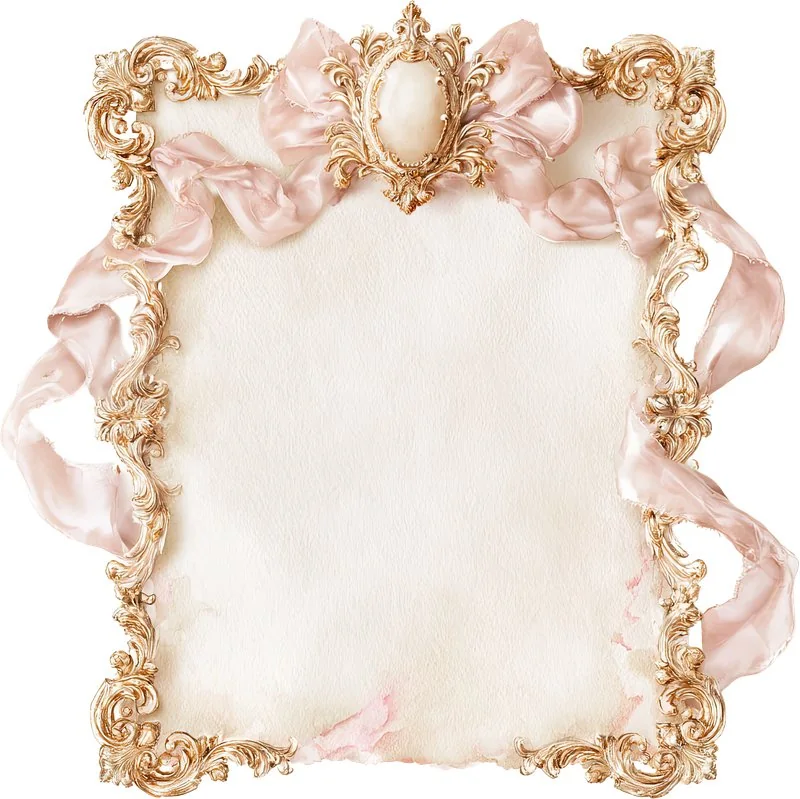
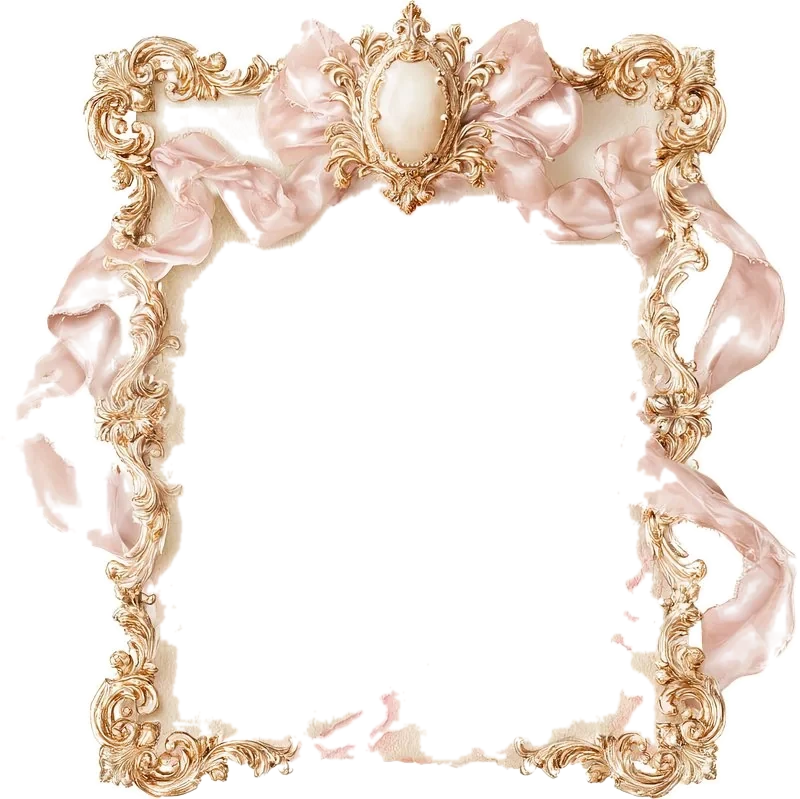
Blush Princess: quitar fondo blanco de las 3 imagenes (sobre, tarjeta, marco)
- tarjeta-mono.webp y marco-camafeo.webp traian el fondo blanco
  horneado (RGB, 0% transparente, esquinas 255,255,255; verificado
  en vivo por md5: los archivos live son identicos al repo).
  Se les quito el fondo con color-to-alpha suave + flood desde el
  centro, protegiendo el camafeo: ahora son RGBA con el papel
  transparente; el mono, el marco dorado, las cintas y el camafeo
  quedan intactos.
- sobre-abierto.png ya era transparente (esquinas alpha 0 en vivo
  y en dev); lo que lo hacia leer como tarjeta blanca era la sombra
  rectangular shadow-xl + rounded-2xl: pasa a drop-shadow-xl
  (silueta, igual que la tarjeta de la Seccion 3).
- Verificado en dev con el demo blush-princess-xv: las esquinas de
  las 3 imagenes dan crema #FDF8F4 (253,248,244), fecha/RSVP legible
  sobre la tarjeta, foto oval intacta en el marco. Build OK.

diff --git a/src/components/templates/BlushPrincessTemplate.tsx b/src/components/templates/BlushPrincessTemplate.tsx
@@ -878,7 +878,7 @@ export default function BlushPrincessTemplate({
         <section className="px-6 py-8 text-center">
           <div className="relative max-w-sm mx-auto">
             {/* eslint-disable-next-line @next/next/no-img-element */}
-            <img src={BLUSH_ASSETS.envelopeOpen} alt="Sobre" className="w-full h-auto rounded-2xl shadow-xl" />
+            <img src={BLUSH_ASSETS.envelopeOpen} alt="Sobre" className="w-full h-auto drop-shadow-xl" />
             <div
               className="absolute left-[21%] right-[21%] top-[24%] text-center"
             >
